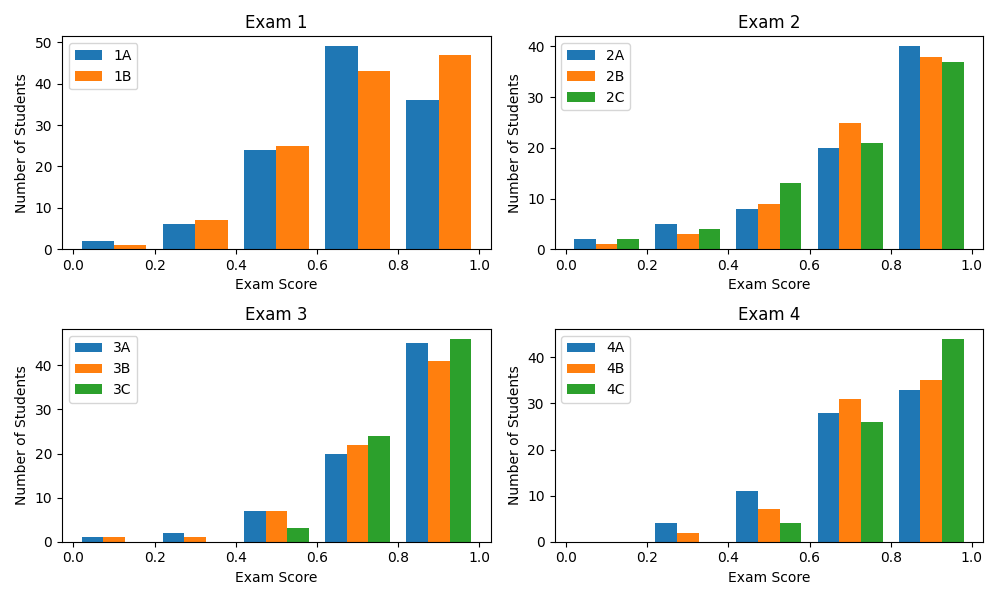
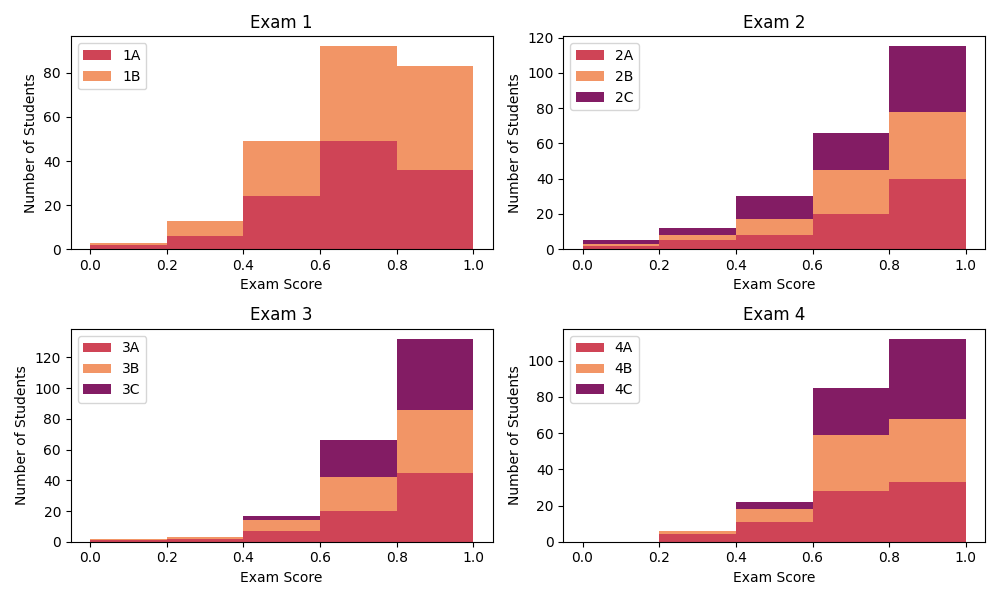
Updated histograms to use stacked bars and updated color palette.

diff --git a/analyses/item_difficulty.py b/analyses/item_difficulty.py
@@ -1,4 +1,5 @@
 import numpy as np
+
 try:
     # Absolute import (for direct execution)
     from analyses import database_utils  
@@ -11,13 +12,17 @@ except ImportError:
 
 import matplotlib.pyplot as plt
 
+custom_palette = ['#cf4456', '#f29566', '#831c64', '#2f0f3e', '#feedb0']
+
+plt.rcParams['axes.prop_cycle'] = plt.cycler('color', custom_palette)
+
 def add_pbc_subplot(point_biserial_correlation_frame, axis, bins, exam_keys, title):
     data_list = []
     for key in exam_keys:
         data_list.append(point_biserial_correlation_frame[point_biserial_correlation_frame["exam_id"].isin([key])]["pbc"].values)
-    axis.hist(data_list, bins, histtype='bar', label=exam_keys)
+    axis.hist(data_list, bins, histtype='bar', stacked=True, label=exam_keys)
     axis.legend(prop={'size': 10})
-    axis.set_xlabel("Corrected Point-Biserial Correlation")
+    axis.set_xlabel("Point-Biserial Correlation")
     axis.set_ylabel("Number of Questions")
     axis.set_title(title)
 
@@ -70,7 +75,7 @@ def add_item_difficulty_subplot(item_difficulty_frame, axis, bins, exam_keys, ti
     data_list = []
     for key in exam_keys:
         data_list.append(item_difficulty_frame[item_difficulty_frame["exam_id"].isin([key])]["item_difficulty"].values)
-    axis.hist(data_list, bins, histtype='bar', label=exam_keys)
+    axis.hist(data_list, bins, histtype='bar', stacked=True, label=exam_keys)
     axis.legend(prop={'size': 10})
     axis.set_xlabel("Item Difficulty")
     axis.set_ylabel("Number of Questions")
@@ -82,7 +87,6 @@ def save_item_difficulty_distributions(item_difficulty_frame = None, filename = 
     if type(filename) == type(None):
         filename = "./figures/item_difficulty_distributions.png"
     bins = [0, 0.1, 0.2, 0.3, 0.4, 0.5, 0.6, 0.7, 0.8, 0.9, 1]
-
 
     fig, ((ax0, ax1), (ax2, ax3)) = plt.subplots(nrows=2, ncols=2, figsize=(10,6))
 
@@ -144,6 +148,10 @@ def get_point_biserial_coefficient_frame(student_score_frame = None):
     point_biserial_correlation_frame["exam_id"] = point_biserial_correlation_frame["question_id"].str[0:2]
 
     return point_biserial_correlation_frame
+
+def show_pbc_ranges(point_biserial_correlation_frame = None):
+    if type(point_biserial_correlation_frame) == type(None):
+        point_biserial_correlation_frame = get_point_biserial_coefficient_frame()
 
 if __name__ == "__main__":
     print(get_item_difficulty_frame())

diff --git a/analyses/observed_score_statistics_and_distributions.py b/analyses/observed_score_statistics_and_distributions.py
@@ -6,6 +6,10 @@ except ImportError:
 import pandas as pd
 import matplotlib.pyplot as plt
 
+custom_palette = ['#cf4456', '#f29566', '#831c64', '#2f0f3e', '#feedb0']
+
+plt.rcParams['axes.prop_cycle'] = plt.cycler('color', custom_palette)
+
 def get_student_exam_taken_count(exam_scores = None):
     if type(exam_scores) == type(None):
         exam_scores = database_utils.get_exam_scores()
@@ -42,7 +46,7 @@ def add_os_subplot(exam_scores, axis, bins, exam_keys, title):
         data_list.append(exam_scores[exam_scores["exam_id"].isin([key])]["exam_score_percent"].values)
     print(data_list)
     print(bins)
-    axis.hist(data_list, bins, histtype='bar', label=exam_keys)
+    axis.hist(data_list, bins, histtype='bar', stacked = True, label=exam_keys)
     axis.legend(prop={'size': 10})
     axis.set_xlabel("Exam Score")
     axis.set_ylabel("Number of Students")
@@ -73,6 +77,6 @@ def save_os_distribution_plots(exam_scores = None, filename = None):
     plt.close(fig)
 
 if __name__ == "__main__":
-    #get_student_exam_taken_count()
+    get_student_exam_taken_count()
     export_observed_score_statistics()
-    #save_os_distribution_plots()
+    save_os_distribution_plots()

diff --git a/run_analyses.py b/run_analyses.py
@@ -1,7 +1,10 @@
-from analyses import exam_and_distractor_counts, effective_distractors_analysis, item_summary, item_difficulty, kr_20_analysis
+from analyses import exam_and_distractor_counts, effective_distractors_analysis, item_summary, item_difficulty, kr_20_analysis, observed_score_statistics_and_distributions
 
 if __name__ == "__main__":
 
+    observed_score_statistics_and_distributions.get_student_exam_taken_count()
+    observed_score_statistics_and_distributions.export_observed_score_statistics()
+    observed_score_statistics_and_distributions.save_os_distribution_plots()
     #Display Exam and distractor counts
     exam_and_distractor_counts.show_question_counts()
     exam_and_distractor_counts.show_exam_question_distractor_counts()
